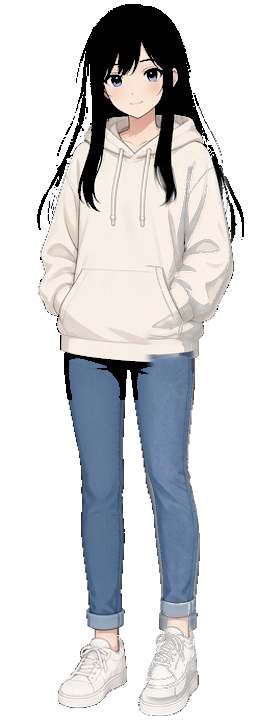
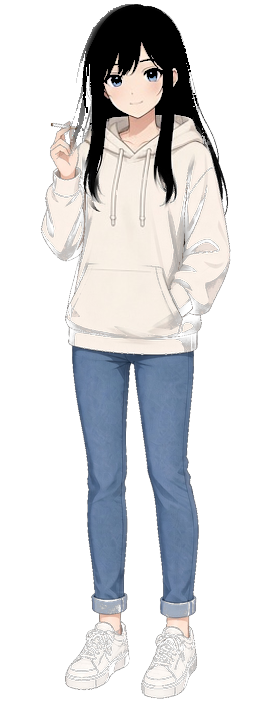
v1.4.43 Face holds: hand out, same face
Keep Imagine grip (right hand out of pocket). Paste-lock only
idle Face A head/hair and pullover chest — do not reuse idle
pocket arms. HOLD_POSE_V hold9.

diff --git a/src/ui/app.ts b/src/ui/app.ts
@@ -287,7 +287,7 @@ function playerAvatarSrc(): string {
   return getAFace() === "camera" ? "avatars/player-face.png?v=face7" : "avatars/player.png?v=a1";
 }
 
-const HOLD_POSE_V = "hold8";
+const HOLD_POSE_V = "hold9";
 
 function playerFullSrc(prop?: ShopPropId | null): string {
   const face = getAFace() === "camera";

diff --git a/public/sw.js b/public/sw.js
@@ -1,5 +1,5 @@
 /* AA Mahjong asset cache — Cache API, not localStorage */
-const CACHE = "aa-mahjong-assets-1.4.42";
+const CACHE = "aa-mahjong-assets-1.4.43";
 const PRECACHE = [
   "avatars/left.png",
   "avatars/opposite.png",

diff --git a/src/main.ts b/src/main.ts
@@ -15,7 +15,7 @@ function registerAssetCache(): void {
 }
 
 function warmImages(): void {
-  const hold = "hold8";
+  const hold = "hold9";
   const urls = [
     "avatars/player.png?v=a1",
     "avatars/player-face.png?v=face7",

diff --git a/src/version.ts b/src/version.ts
@@ -1,2 +1,2 @@
 /** Single app version — keep in sync with package.json, VERSION, public/sw.js CACHE. */
-export const APP_VERSION = "1.4.42";
+export const APP_VERSION = "1.4.43";
